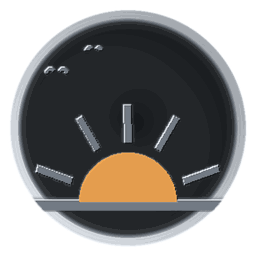
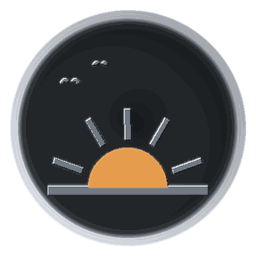
fix(art): clamp emblem corners to the face radius (sun/moon crossed the frame)
Normalizing the union bbox max-dimension lets DIAGONAL elements cross into
the silver frame (around-the-clock's sun/moon sit at sqrt(w²+h²)/2 from the
coin center). scale_emblem now clamps the farthest corner to the dark-face
radius with a 2px margin — flush against the frame stays fine, crossing it
is gone. Verified per-face: every generated accent now lands <=106.5/128,
matching the originals' flush-but-not-crossing design.

diff --git a/dashboard/src/ui/achievements/badge-catalog.js b/dashboard/src/ui/achievements/badge-catalog.js
@@ -42,45 +42,45 @@ import {
 // for provenance); the lucide `icon` is the render fallback if the art fails
 // to load.
 export const BADGE_CATALOG = [
-  { id: "token_titan", scope: "cloud", icon: Crown, format: "tokens", art: "/achievements/token-titan.png?v=6" },
-  { id: "big_day", scope: "cloud", icon: Zap, format: "tokens", art: "/achievements/big-day.png?v=6" },
-  { id: "wordsmith", scope: "cloud", icon: Feather, format: "tokens", art: "/achievements/wordsmith.png?v=6" },
-  { id: "marathoner", scope: "cloud", icon: Footprints, format: "days", art: "/achievements/marathoner.png?v=6" },
-  { id: "streak", scope: "cloud", icon: Flame, format: "days", art: "/achievements/streak.png?v=6" },
-  { id: "weekend_warrior", scope: "cloud", icon: CalendarDays, format: "days", art: "/achievements/weekend-warrior.png?v=6" },
-  { id: "momentum", scope: "cloud", icon: TrendingUp, format: "multiplier", art: "/achievements/momentum.png?v=6" },
-  { id: "polyglot", scope: "cloud", icon: Brain, format: "count", art: "/achievements/polyglot.png?v=6" },
-  { id: "trendsetter", scope: "cloud", icon: Rocket, format: "count", art: "/achievements/trendsetter.png?v=6" },
-  { id: "multitool", scope: "cloud", icon: Blocks, format: "count", art: "/achievements/multitool.png?v=6" },
-  { id: "podium", scope: "cloud", icon: Medal, format: "rank", art: "/achievements/podium.png?v=6" },
-  { id: "veteran", scope: "cloud", icon: ShieldCheck, format: "days", art: "/achievements/veteran.png?v=6" },
+  { id: "token_titan", scope: "cloud", icon: Crown, format: "tokens", art: "/achievements/token-titan.png?v=7" },
+  { id: "big_day", scope: "cloud", icon: Zap, format: "tokens", art: "/achievements/big-day.png?v=7" },
+  { id: "wordsmith", scope: "cloud", icon: Feather, format: "tokens", art: "/achievements/wordsmith.png?v=7" },
+  { id: "marathoner", scope: "cloud", icon: Footprints, format: "days", art: "/achievements/marathoner.png?v=7" },
+  { id: "streak", scope: "cloud", icon: Flame, format: "days", art: "/achievements/streak.png?v=7" },
+  { id: "weekend_warrior", scope: "cloud", icon: CalendarDays, format: "days", art: "/achievements/weekend-warrior.png?v=7" },
+  { id: "momentum", scope: "cloud", icon: TrendingUp, format: "multiplier", art: "/achievements/momentum.png?v=7" },
+  { id: "polyglot", scope: "cloud", icon: Brain, format: "count", art: "/achievements/polyglot.png?v=7" },
+  { id: "trendsetter", scope: "cloud", icon: Rocket, format: "count", art: "/achievements/trendsetter.png?v=7" },
+  { id: "multitool", scope: "cloud", icon: Blocks, format: "count", art: "/achievements/multitool.png?v=7" },
+  { id: "podium", scope: "cloud", icon: Medal, format: "rank", art: "/achievements/podium.png?v=7" },
+  { id: "veteran", scope: "cloud", icon: ShieldCheck, format: "days", art: "/achievements/veteran.png?v=7" },
   // Wave-2 cloud badges (2026-10-21). claude_survivor / wishing_well are
   // hidden easter eggs: locked, they render as "???" even to the owner —
   // the flag lives in the SQL catalog and user_badges_full payloads.
   // heart_model reuses the unused heart-on-your-sleeve face (a favorite
   // worn openly — the name semantics carry over).
-  { id: "phoenix", scope: "cloud", icon: FlameKindling, format: "days", art: "/achievements/phoenix.png?v=6" },
-  { id: "iron_month", scope: "cloud", icon: CalendarCheck2, format: "days", art: "/achievements/iron-month.png?v=6" },
-  { id: "full_blast", scope: "cloud", icon: Activity, format: "tokens", art: "/achievements/full-blast.png?v=6" },
-  { id: "deep_diver", scope: "cloud", icon: Anchor, format: "count", art: "/achievements/deep-diver.png?v=6" },
-  { id: "multitool_day", scope: "cloud", icon: Layers, format: "count", art: "/achievements/multitool-day.png?v=6" },
-  { id: "heart_model", scope: "cloud", icon: HeartPulse, format: "percent", art: "/achievements/heart-model.png?v=6" },
-  { id: "claude_survivor", scope: "cloud", hidden: true, icon: Skull, format: "tokens", art: "/achievements/claude-survivor.png?v=6" },
-  { id: "wishing_well", scope: "cloud", hidden: true, icon: Coins, format: "tokens", art: "/achievements/wishing-well.png?v=6" },
-  { id: "grand_slam", scope: "cloud", icon: Trophy, format: "count", art: "/achievements/grand-slam.png?v=6" },
-  { id: "project_hopper", scope: "local", icon: FolderGit2, format: "count", art: "/achievements/project-hopper.png?v=6" },
-  { id: "project_devotion", scope: "local", icon: Heart, format: "tokens", art: "/achievements/project-devotion.png?v=6" },
-  { id: "night_owl", scope: "local", icon: MoonStar, format: "count", art: "/achievements/night-owl.png?v=6" },
+  { id: "phoenix", scope: "cloud", icon: FlameKindling, format: "days", art: "/achievements/phoenix.png?v=7" },
+  { id: "iron_month", scope: "cloud", icon: CalendarCheck2, format: "days", art: "/achievements/iron-month.png?v=7" },
+  { id: "full_blast", scope: "cloud", icon: Activity, format: "tokens", art: "/achievements/full-blast.png?v=7" },
+  { id: "deep_diver", scope: "cloud", icon: Anchor, format: "count", art: "/achievements/deep-diver.png?v=7" },
+  { id: "multitool_day", scope: "cloud", icon: Layers, format: "count", art: "/achievements/multitool-day.png?v=7" },
+  { id: "heart_model", scope: "cloud", icon: HeartPulse, format: "percent", art: "/achievements/heart-model.png?v=7" },
+  { id: "claude_survivor", scope: "cloud", hidden: true, icon: Skull, format: "tokens", art: "/achievements/claude-survivor.png?v=7" },
+  { id: "wishing_well", scope: "cloud", hidden: true, icon: Coins, format: "tokens", art: "/achievements/wishing-well.png?v=7" },
+  { id: "grand_slam", scope: "cloud", icon: Trophy, format: "count", art: "/achievements/grand-slam.png?v=7" },
+  { id: "project_hopper", scope: "local", icon: FolderGit2, format: "count", art: "/achievements/project-hopper.png?v=7" },
+  { id: "project_devotion", scope: "local", icon: Heart, format: "tokens", art: "/achievements/project-devotion.png?v=7" },
+  { id: "night_owl", scope: "local", icon: MoonStar, format: "count", art: "/achievements/night-owl.png?v=7" },
   // Habit badges computed on-device. Faces are self-drawn medallions matched
   // to each badge's meaning, except deep_thinker which reuses the unused
   // galaxy-brain face (brain → reasoning; the name semantics carry over).
-  { id: "early_bird", scope: "local", icon: Sunrise, format: "count", art: "/achievements/early-bird.png?v=6" },
-  { id: "around_the_clock", scope: "local", icon: Clock, format: "count", art: "/achievements/around-the-clock.png?v=6" },
-  { id: "sprinter", scope: "local", icon: Gauge, format: "tokens", art: "/achievements/sprinter.png?v=6" },
-  { id: "cache_alchemist", scope: "local", icon: FlaskConical, format: "tokens", art: "/achievements/cache-alchemist.png?v=6" },
-  { id: "deep_thinker", scope: "local", icon: BrainCircuit, format: "tokens", art: "/achievements/deep-thinker.png?v=6" },
-  { id: "real_money", scope: "local", icon: Banknote, format: "usd", art: "/achievements/real-money.png?v=6" },
-  { id: "session_marathon", scope: "local", icon: Hourglass, format: "duration", art: "/achievements/session-marathon.png?v=6" },
+  { id: "early_bird", scope: "local", icon: Sunrise, format: "count", art: "/achievements/early-bird.png?v=7" },
+  { id: "around_the_clock", scope: "local", icon: Clock, format: "count", art: "/achievements/around-the-clock.png?v=7" },
+  { id: "sprinter", scope: "local", icon: Gauge, format: "tokens", art: "/achievements/sprinter.png?v=7" },
+  { id: "cache_alchemist", scope: "local", icon: FlaskConical, format: "tokens", art: "/achievements/cache-alchemist.png?v=7" },
+  { id: "deep_thinker", scope: "local", icon: BrainCircuit, format: "tokens", art: "/achievements/deep-thinker.png?v=7" },
+  { id: "real_money", scope: "local", icon: Banknote, format: "usd", art: "/achievements/real-money.png?v=7" },
+  { id: "session_marathon", scope: "local", icon: Hourglass, format: "duration", art: "/achievements/session-marathon.png?v=7" },
 ];
 
 export const BADGE_BY_ID = new Map(BADGE_CATALOG.map((b) => [b.id, b]));

diff --git a/scripts/art/gen-achievement-medallions.py b/scripts/art/gen-achievement-medallions.py
@@ -80,7 +80,13 @@ def scale_emblem(height_map, accent_layer):
     """Scale the emblem about the UNION bounding box of both layers so the
     steel relief and the accent tint stay perfectly aligned. The emblem's
     max dimension is normalized to EMBLEM_TARGET (77.5% of the canvas —
-    measured from the original medallions)."""
+    measured from the original medallions). Normalizing the max dimension
+    alone is NOT enough for emblems whose elements sit on the bbox DIAGONAL
+    (around-the-clock's sun/moon): a corner sits at sqrt(w²+h²)/2 from the
+    coin center and crosses into the frame. After scaling, clamp the
+    farthest bbox corner to the dark-face radius (212px @512, minus a hair)
+    so every emblem stays ON the face — flush against the frame is fine,
+    crossing it is not. Applies to all faces through this single function."""
     boxes = [l.getbbox() for l in (height_map, accent_layer)]
     boxes = [b for b in boxes if b]
     x0 = min(b[0] for b in boxes)
@@ -90,6 +96,21 @@ def scale_emblem(height_map, accent_layer):
     factor = EMBLEM_TARGET / float(max(x1 - x0, y1 - y0))
     w = max(1, int((x1 - x0) * factor))
     hgt = max(1, int((y1 - y0) * factor))
+    # corner-distance clamp (see docstring)
+    far = max(
+        math.hypot(px - S / 2.0, py - S / 2.0)
+        for px, py in (
+            ((S - w) / 2.0, (S - hgt) / 2.0),
+            ((S + w) / 2.0, (S - hgt) / 2.0),
+            ((S - w) / 2.0, (S + hgt) / 2.0),
+            ((S + w) / 2.0, (S + hgt) / 2.0),
+        )
+    )
+    limit = 210.0  # dark face radius 212 minus a hair
+    if far > limit:
+        shrink = limit / far
+        w = max(1, int(w * shrink))
+        hgt = max(1, int(hgt * shrink))
     out_h = Image.new("L", (S, S), 0)
     out_a = Image.new("RGBA", (S, S), (0, 0, 0, 0))
     ox, oy = (S - w) // 2, (S - hgt) // 2
